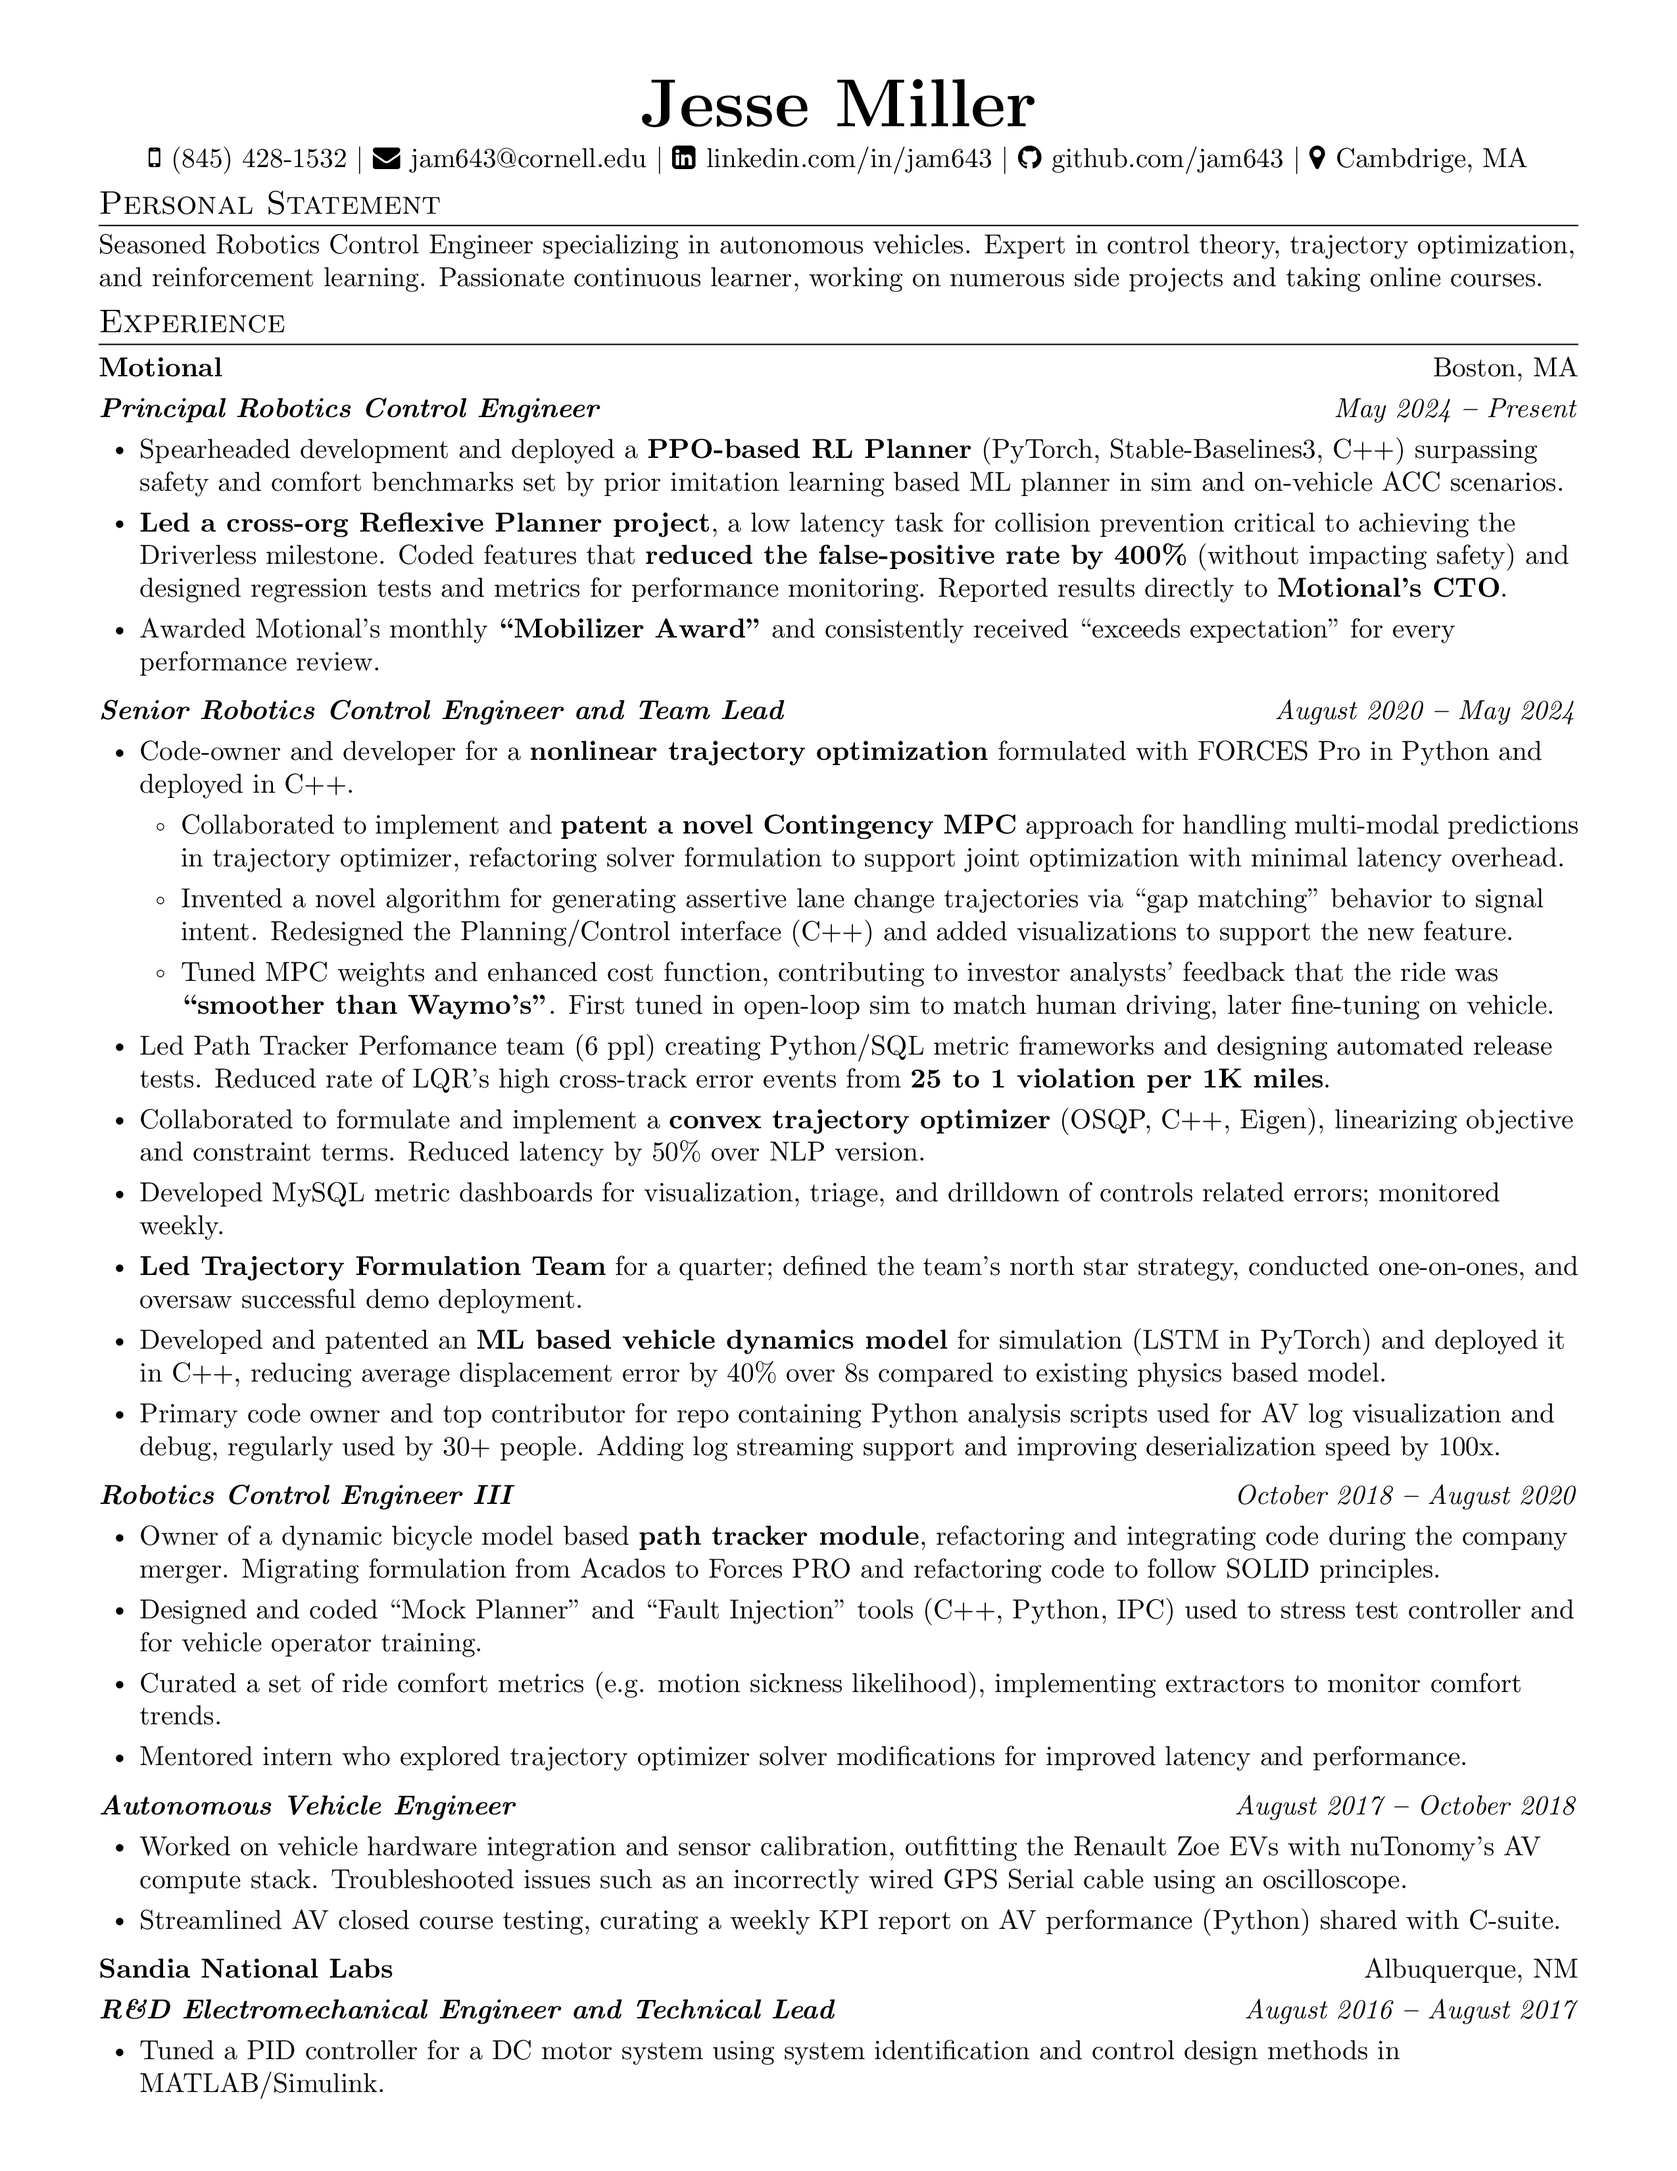
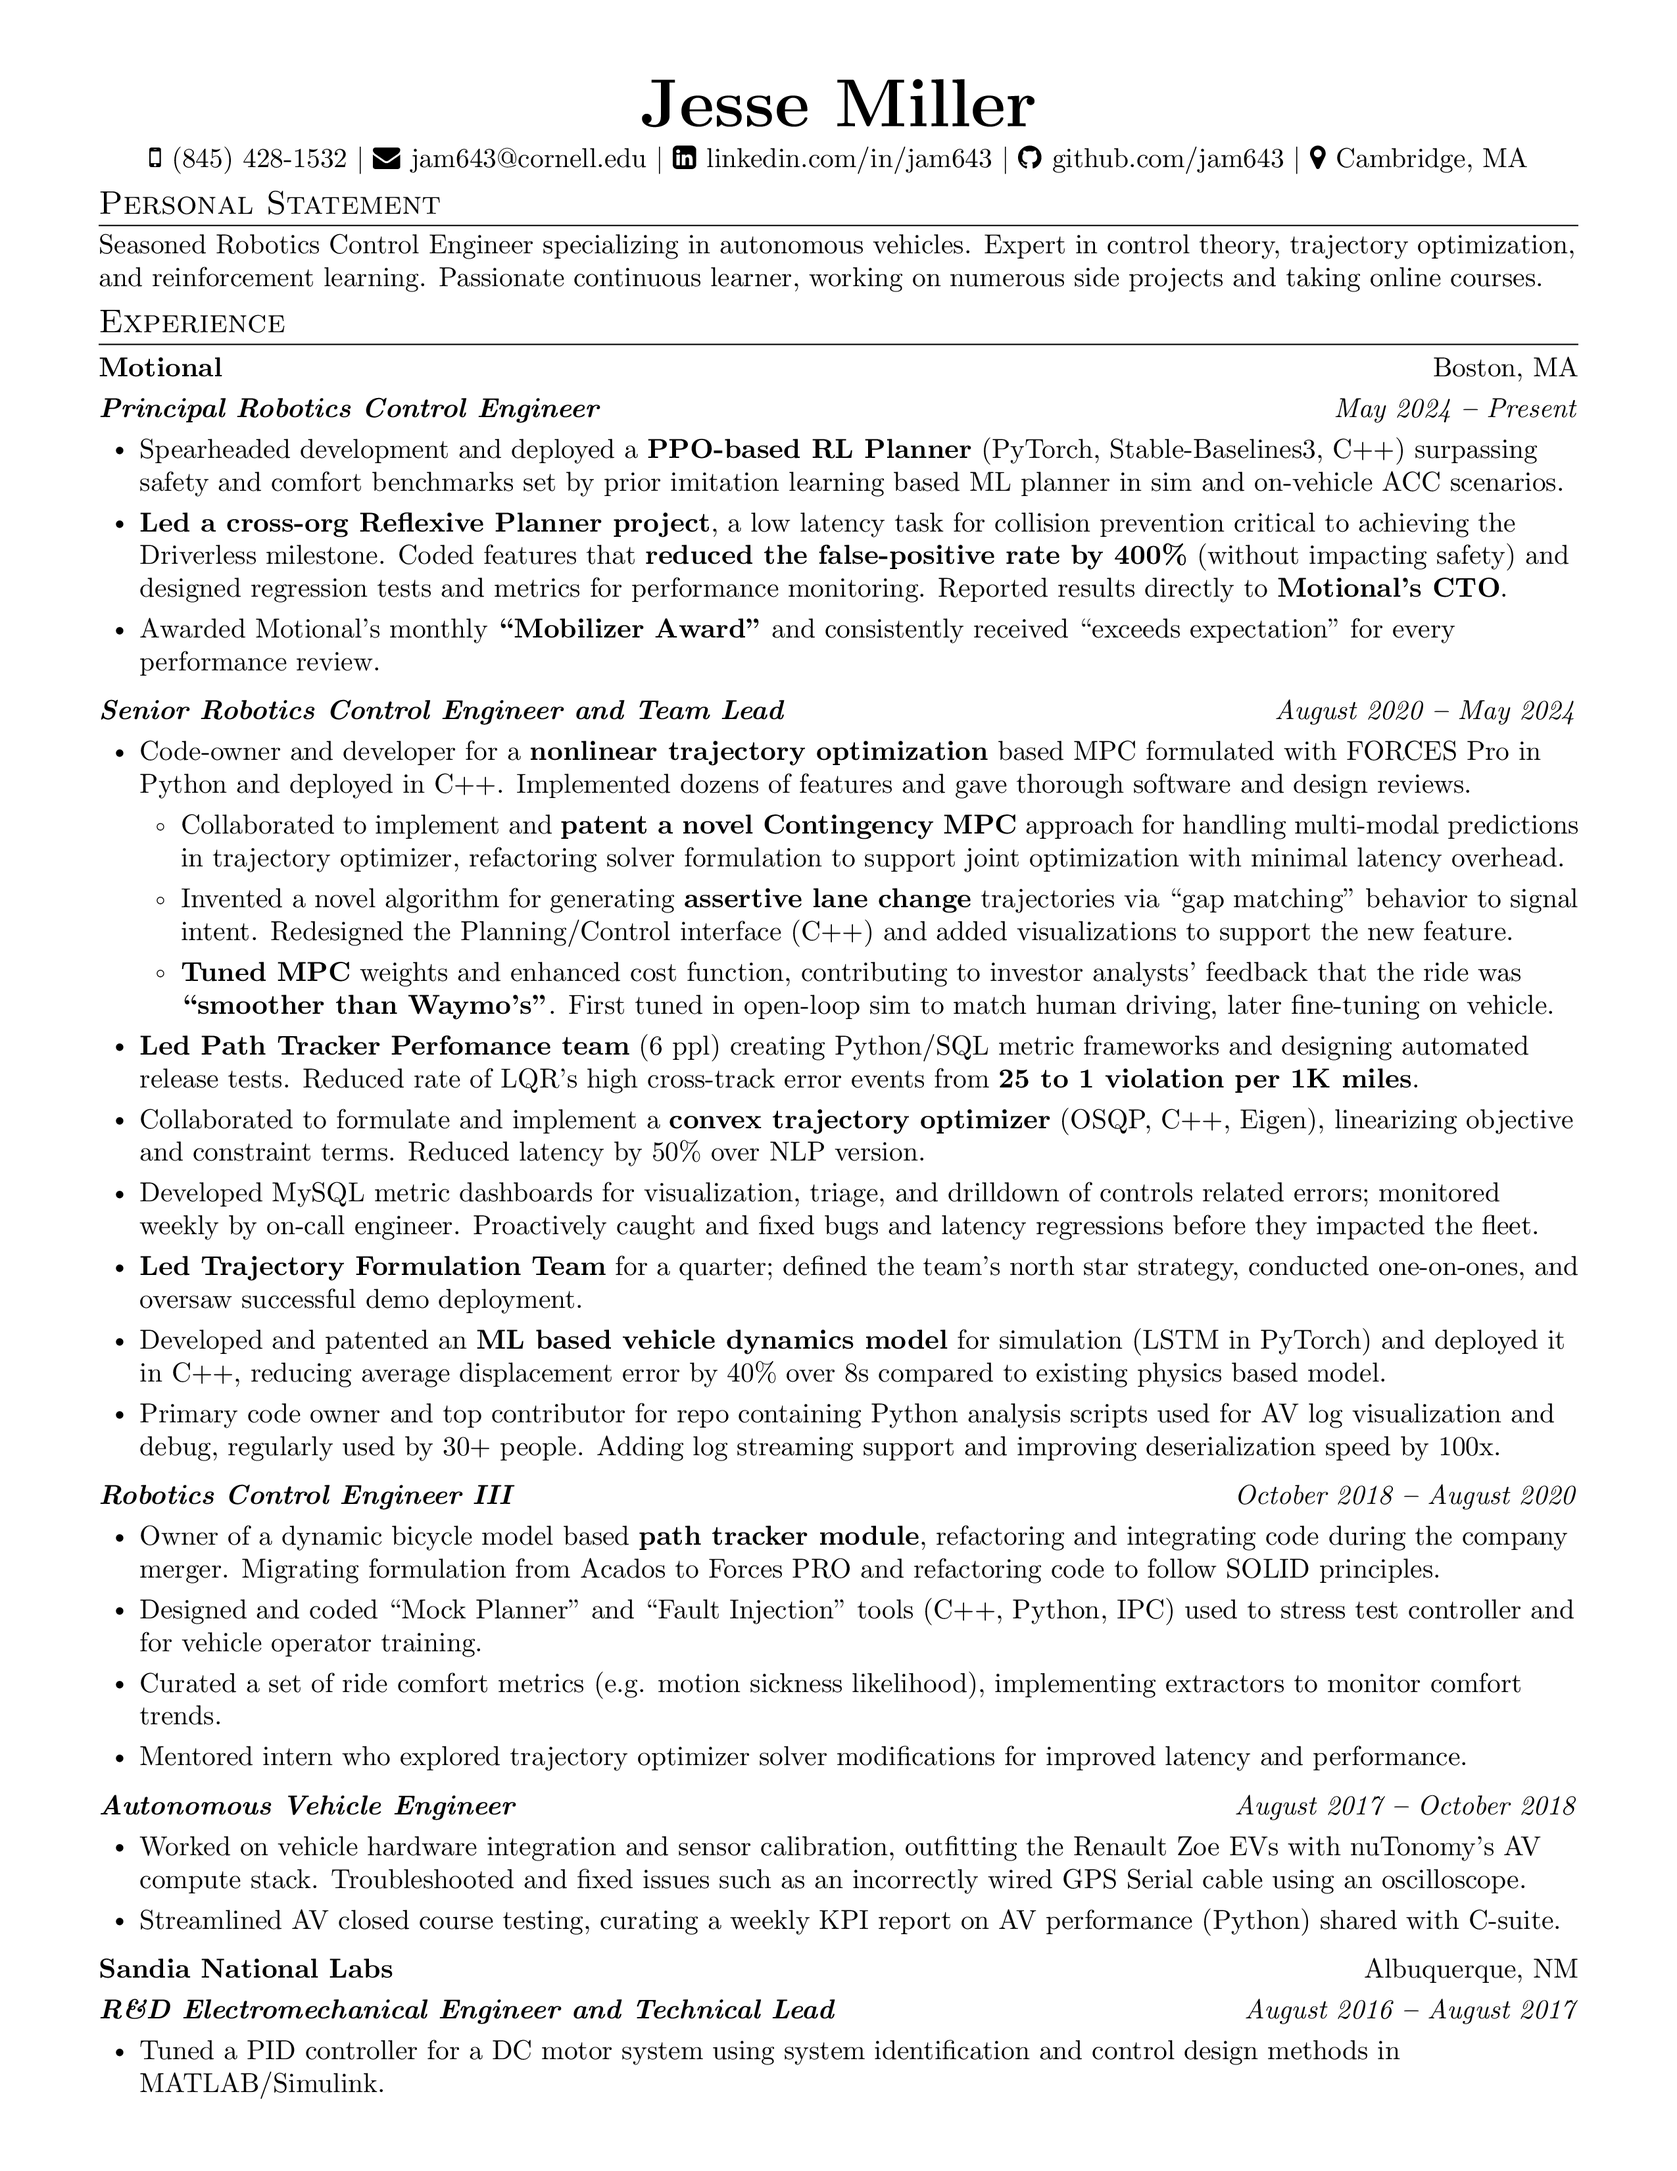
chatgpt comments

diff --git a/jesse_miller_resume.tex b/jesse_miller_resume.tex
@@ -70,7 +70,7 @@
 
 \iftoggle{is_long_version}
 {\linespread{1.0}}  % single line spacing
-{\linespread{0.99}}  % single line spacing
+{\linespread{0.97}}  % single line spacing
 \setlength{\parskip}{0pt} % paragraph spacing
 
 % bullet list spacing
@@ -150,7 +150,7 @@
   % $|$
   % \faGlobe \hspace{\spaceAfterLogo} \href{https://jam643.github.io}{Portfolio}
   $|$
-  \faMapMarker \hspace{\spaceAfterLogo} \href{https://maps.app.goo.gl/hpB8QGkNWpEHrJGD9}{Cambdrige, MA}
+  \faMapMarker \hspace{\spaceAfterLogo} \href{https://maps.app.goo.gl/hpB8QGkNWpEHrJGD9}{Cambridge, MA}
 \end{center}
 
 %----------- SUMMARY -----------
@@ -178,17 +178,15 @@
 \titleAndDateHeading
 {Senior Robotics Control Engineer and Team Lead}{August 2020 \textbf{--} May 2024}
 \outerBulletListStart
-\bulletItem{Code-owner and developer for a \textbf{nonlinear trajectory optimization} formulated with FORCES Pro in Python and deployed in C++.}
+\bulletItem{Code-owner and developer for a \textbf{nonlinear trajectory optimization} based MPC formulated with FORCES Pro in Python and deployed in C++. Implemented dozens of features and gave thorough software and design reviews.}
 \innerBulletListStart
 \bulletItem{Collaborated to implement and \textbf{patent a novel Contingency MPC} approach for handling multi-modal predictions in trajectory optimizer, refactoring solver formulation to support joint optimization with minimal latency overhead.}
-\bulletItem{Invented a novel algorithm for generating assertive lane change trajectories via \enquote{gap matching} behavior to signal intent. Redesigned the Planning/Control interface (C++) and added visualizations to support the new feature.}
-\bulletItem{Tuned MPC weights and enhanced cost function, contributing to investor analysts’ feedback that the ride was \textbf{\enquote{smoother than Waymo’s}}. First tuned in open-loop sim to match human driving, later fine-tuning on vehicle.}
+\bulletItem{Invented a novel algorithm for generating \textbf{assertive lane change} trajectories via \enquote{gap matching} behavior to signal intent. Redesigned the Planning/Control interface (C++) and added visualizations to support the new feature.}
+\bulletItem{\textbf{Tuned MPC} weights and enhanced cost function, contributing to investor analysts’ feedback that the ride was \textbf{\enquote{smoother than Waymo’s}}. First tuned in open-loop sim to match human driving, later fine-tuning on vehicle.}
 \innerBulletListEnd
-\bulletItem{Led Path Tracker Perfomance team (6 ppl) creating Python/SQL metric frameworks and designing automated release tests. Reduced rate of LQR's high cross-track error events from \textbf{25 to 1 violation per 1K miles}.}
+\bulletItem{\textbf{Led Path Tracker Perfomance team} (6 ppl) creating Python/SQL metric frameworks and designing automated release tests. Reduced rate of LQR's high cross-track error events from \textbf{25 to 1 violation per 1K miles}.}
 \bulletItem{Collaborated to formulate and implement a \textbf{convex trajectory optimizer} (OSQP, C++, Eigen), linearizing objective and constraint terms. Reduced latency by 50\% over NLP version.}
-\iftoggle{is_long_version}{
-  \bulletItem{Developed MySQL metric dashboards for visualization, triage, and drilldown of controls related errors; monitored weekly.}
-}{}
+\bulletItem{Developed MySQL metric dashboards for visualization, triage, and drilldown of controls related errors; monitored weekly by on-call engineer. Proactively caught and fixed bugs and latency regressions before they impacted the fleet.}
 \bulletItem{\textbf{Led Trajectory Formulation Team} for a quarter; defined the team’s north star strategy, conducted one-on-ones, and oversaw successful demo deployment.}
 \bulletItem{Developed and patented an \textbf{ML based vehicle dynamics model} for simulation (LSTM in PyTorch) and deployed it in C++, reducing average displacement error by 40\% over 8s compared to existing physics based model.}
 \bulletItem{Primary code owner and top contributor for repo containing Python analysis scripts used for AV log visualization and debug, regularly used by 30+ people. Adding log streaming support and improving deserialization speed by 100x.}
@@ -208,7 +206,7 @@
 \titleAndDateHeading
 {Autonomous Vehicle Engineer}{August 2017 \textbf{--} October 2018}
 \outerBulletListStart
-\bulletItem{Worked on vehicle hardware integration and sensor calibration, outfitting the Renault Zoe EVs with nuTonomy’s AV compute stack. Troubleshooted issues such as an incorrectly wired GPS Serial cable using an oscilloscope.}
+\bulletItem{Worked on vehicle hardware integration and sensor calibration, outfitting the Renault Zoe EVs with nuTonomy’s AV compute stack. Troubleshooted and fixed issues such as an incorrectly wired GPS Serial cable using an oscilloscope.}
 \bulletItem{Streamlined AV closed course testing, curating a weekly KPI report on AV performance (Python) shared with C-suite.}
 \outerBulletListEnd
 
@@ -254,11 +252,11 @@
 \titleAndDateHeading
 {Data Analyst and Performance Intern}{May 2015 \textbf{--} August 2015}
 \outerBulletListStart
-\bulletItem{Created a random forest machine learning predictor using Python and MySQL to predict the time it takes to pick an item off a shelf.}
+\bulletItem{Created a random forest ML predictor (Python, MySQL) to predict the time it takes to pick an item off a shelf.}
 \iftoggle{is_long_version}{
   \bulletItem{Designed a Linux service using Java and XML, allowing the predictor to be easily used.}
 }{}
-\bulletItem{Implemented the predictor service with a performance website, improving metrics used to assess employee performance.}
+\bulletItem{Implemented the predictor service that improved metrics used to assess employee performance, saving the company millions and remaining in use years after my internship.}
 \outerBulletListEnd
 
 \companyNameAndLocationHeading
